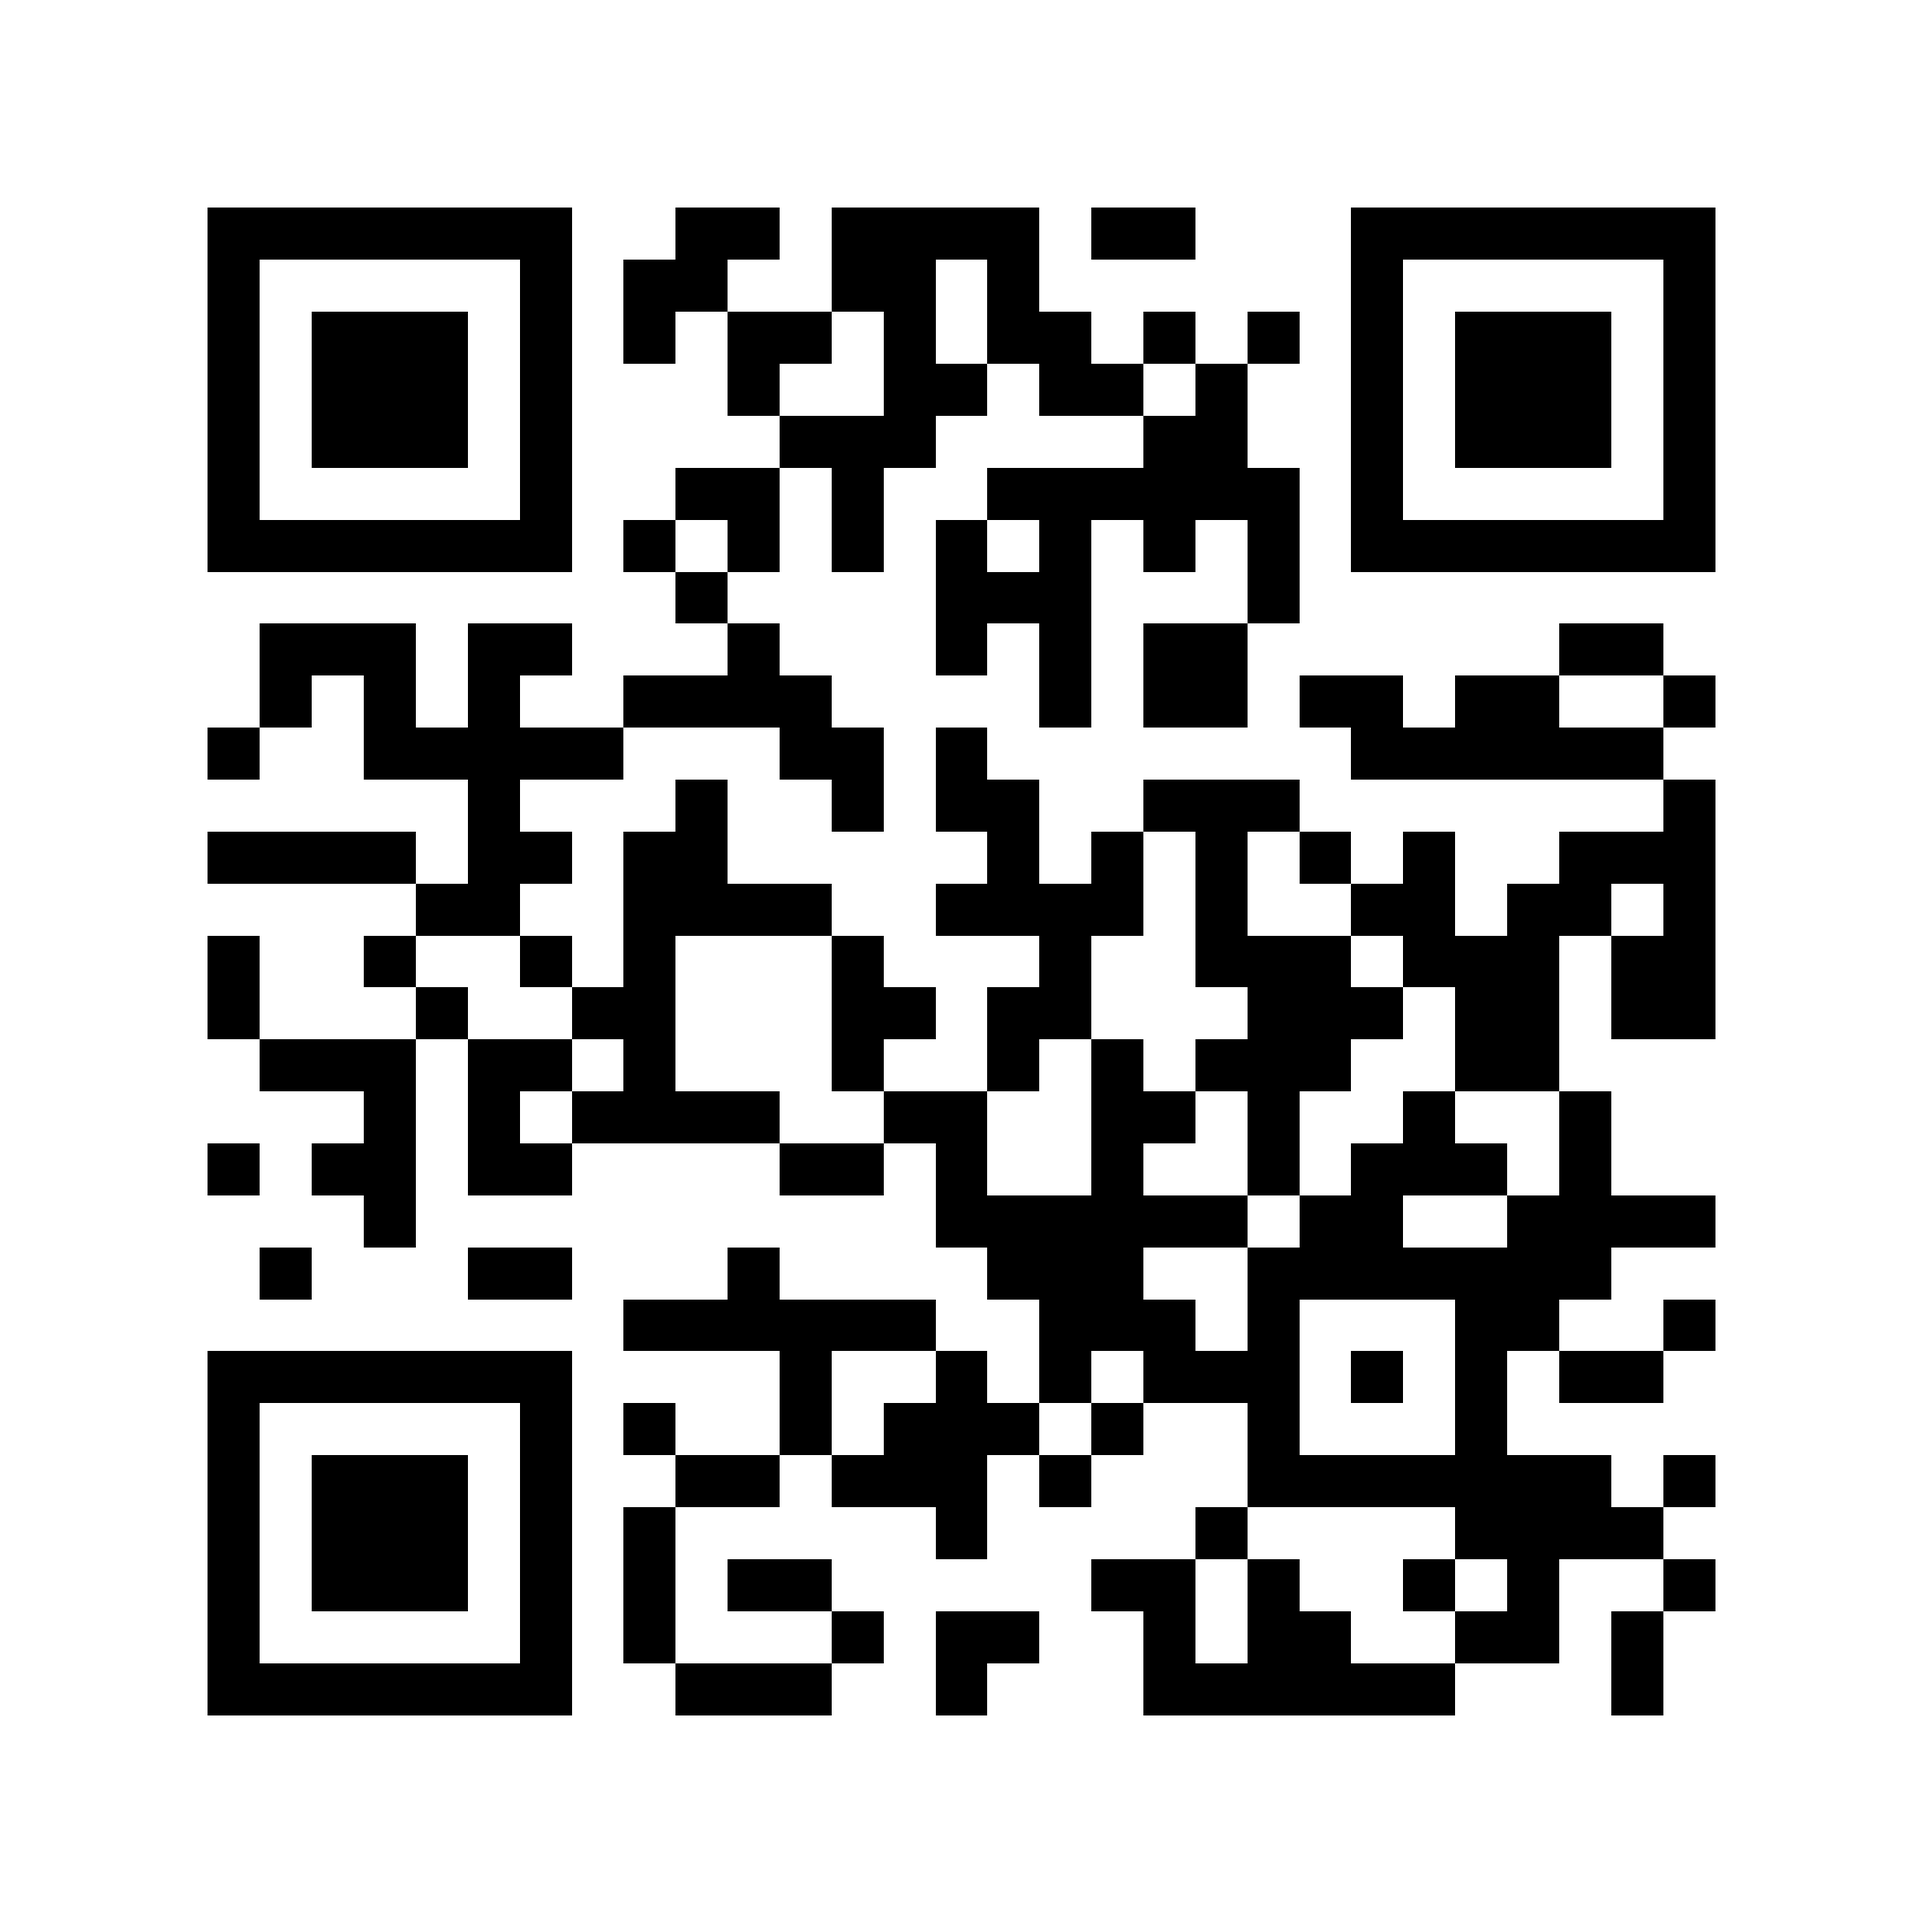
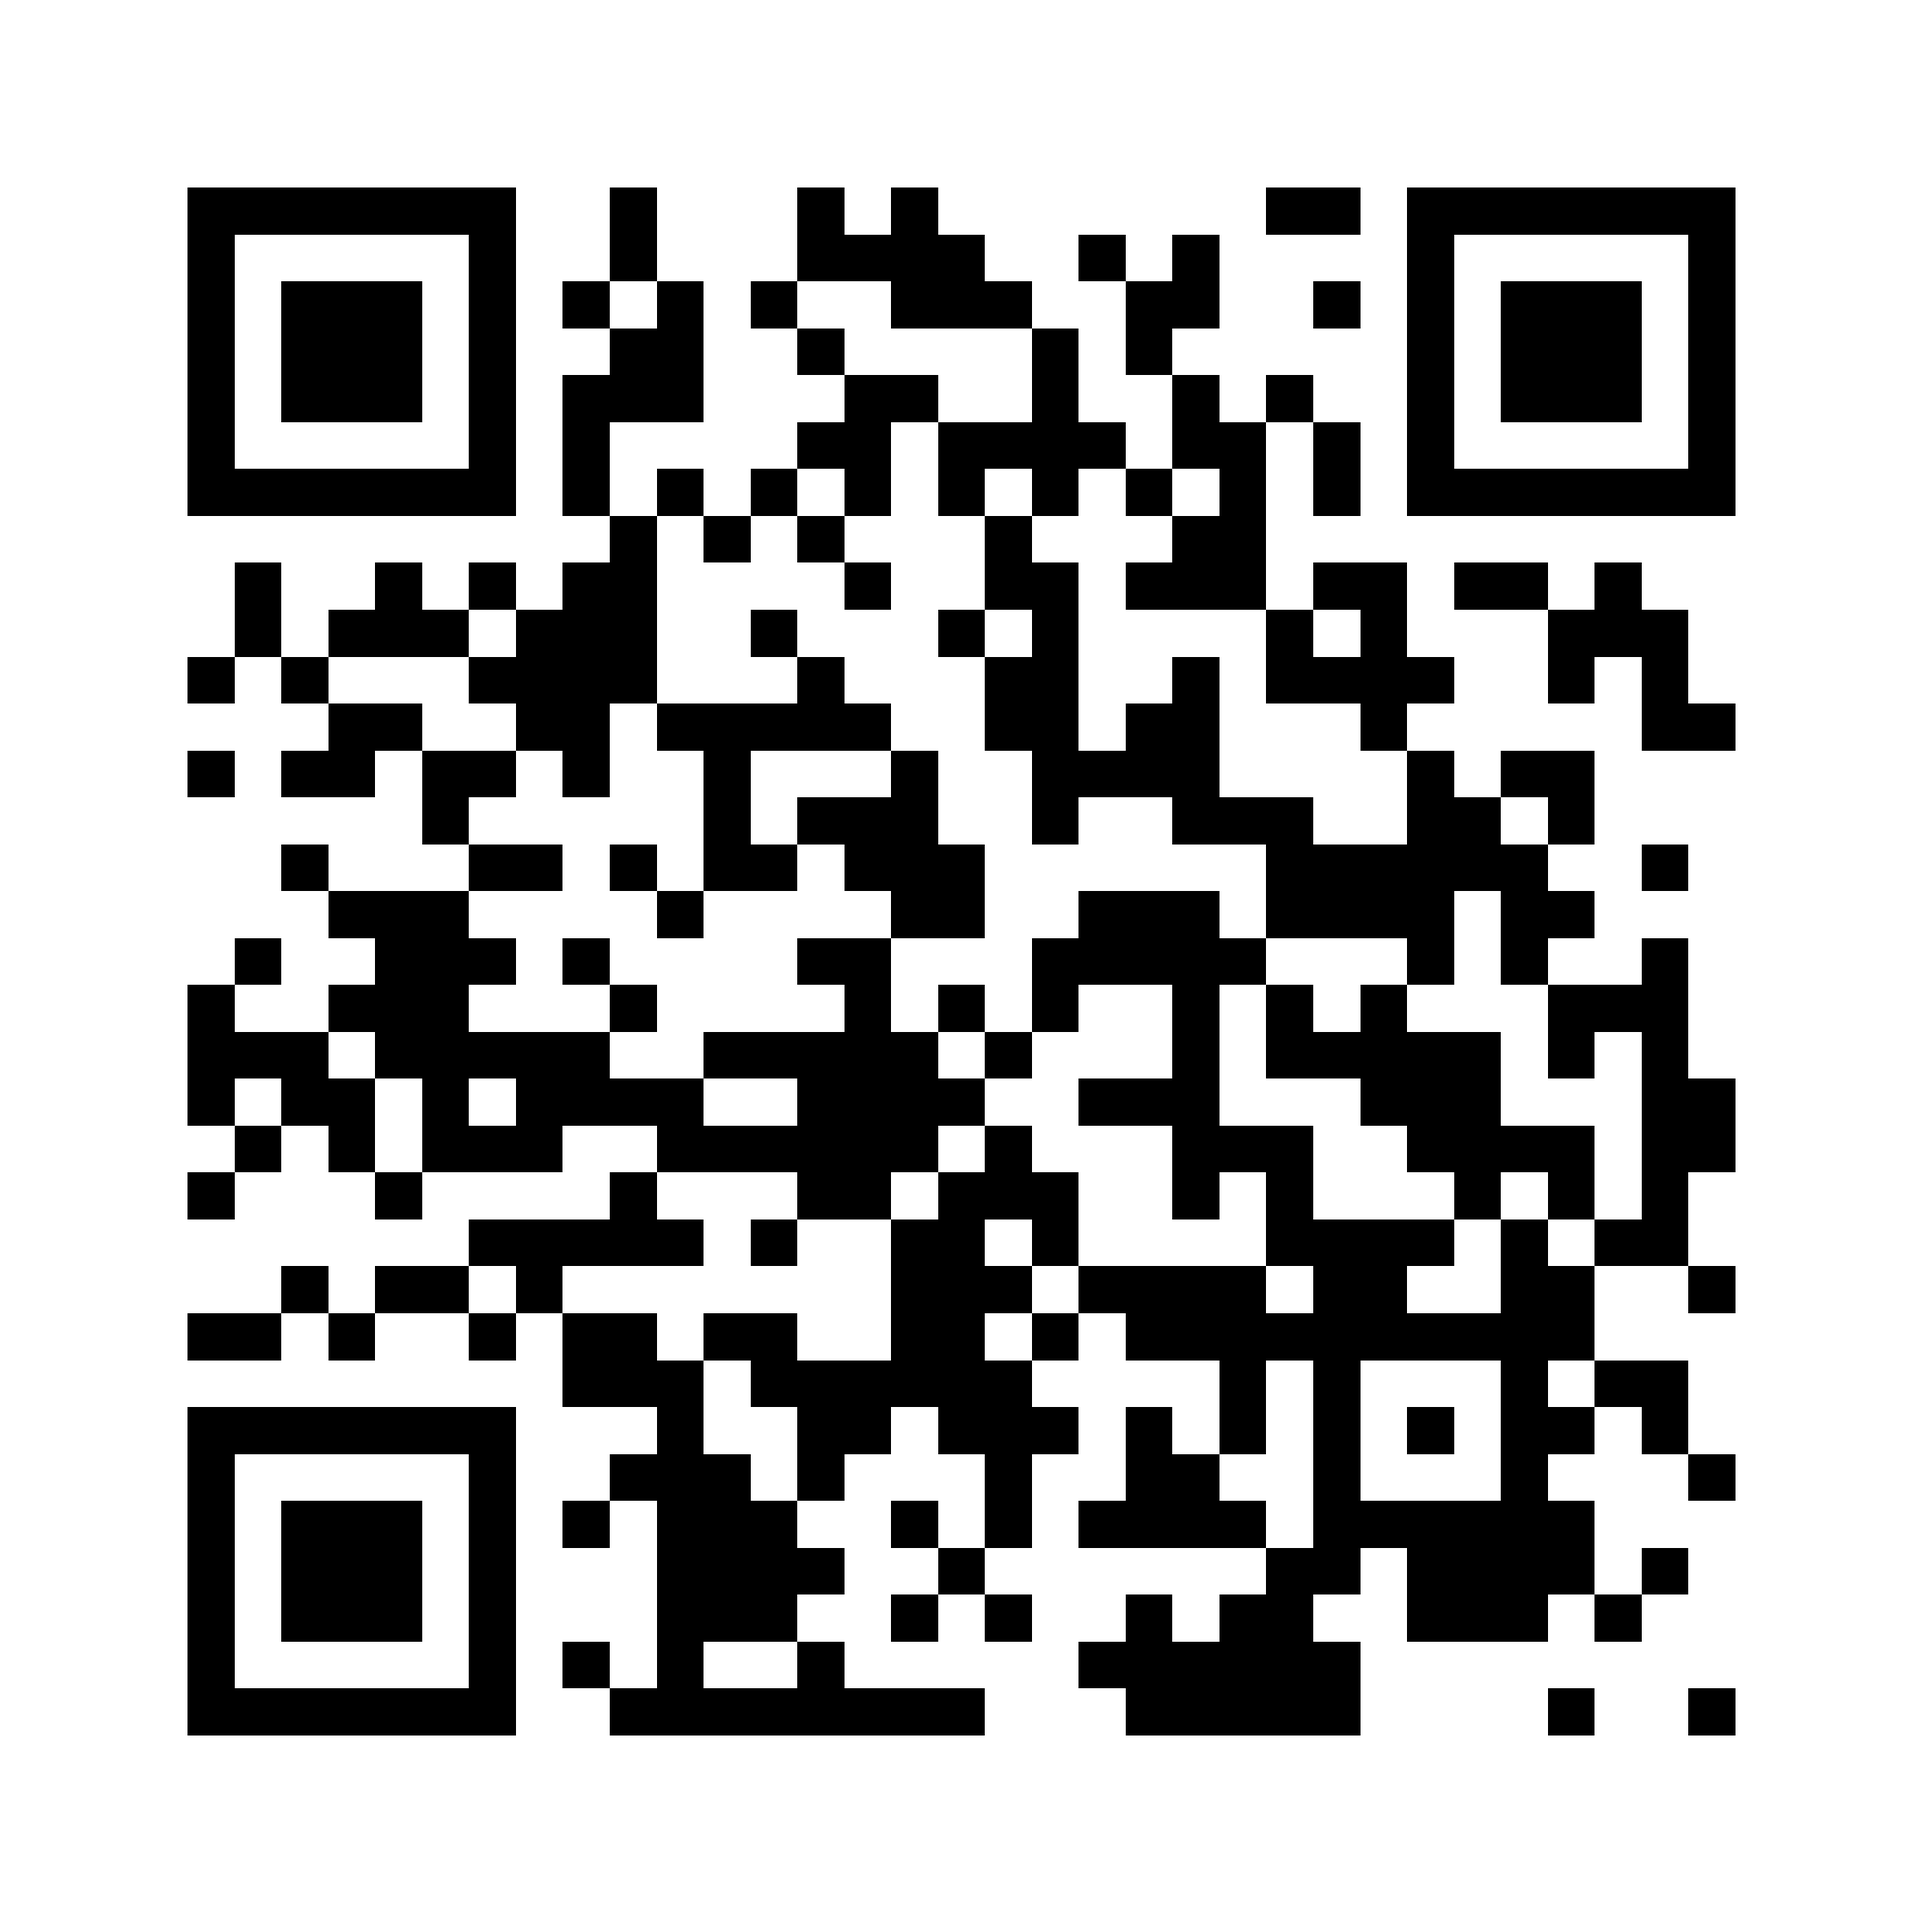
feat: liga o Umami (site maksō) e QR do convite com origem "convite"
- config.json: umamiWebsiteId do site criado no Umami Cloud (região EUA, plano Hobby)
- QR do convite agora aponta para https://makso.onrender.com/?utm_source=convite
  (versão 4, ECC Q) e um teste confere que o PNG em assets/qr decodifica para ela
- README: seção "Visitas (Umami)" e comando do QR com a origem
- spec: seção 15 (contagem de visitas)

Claude-Session: https://claude.ai/code/session_01AT1uLj5nbHYmjPSXDHG2AX

diff --git a/README.md b/README.md
@@ -122,8 +122,10 @@ Uma conta Gmail comum envia até **100 e-mails por dia** pelo script.
 Depois que o site estiver no ar com a URL definitiva:
 
 ```bash
-python3 -I scripts/qr.py https://makso.onrender.com/ assets/qr
+python3 -I scripts/qr.py "https://makso.onrender.com/?utm_source=convite" assets/qr
 ```
+
+O `?utm_source=convite` faz o Umami separar quem chegou pelo convite impresso de quem recebeu o link por WhatsApp ou outro lugar. O site ignora esse trecho; ele serve só para a contagem.
 
 - **Arquivos:**
   - `qr-makso.svg`: vetor, o arquivo para a gráfica;
@@ -134,6 +136,26 @@ python3 -I scripts/qr.py https://makso.onrender.com/ assets/qr
   - preto sobre fundo claro;
   - sem cortar a margem branca em volta.
   - Teste uma prova impressa com iPhone e Android antes da tiragem.
+
+## Visitas (Umami)
+
+O painel fica em **cloud.umami.is** (entrar com o GitHub `vitaodamotorizada123`, plano Hobby grátis, dados nos EUA). Ele mostra:
+
+- **Visitas:** quantas pessoas abriram o site e quando, inclusive em tempo real.
+- **Aparelho:** celular, tablet ou computador; sistema (iOS, Android, Windows…) e navegador; tamanho de tela.
+- **Origem:** país, estado e cidade aproximados; de onde a pessoa veio (o `convite` do QR, links de WhatsApp, Instagram…).
+- **Funil do formulário** (aba Events):
+  - `clicou-confirmar-topo`;
+  - `iniciou-formulario`;
+  - `erro-validacao`;
+  - `confirmou` (com `acompanhante: true/false`);
+  - `recusou`, `ja-respondeu`, `encerrado`, `erro-envio`.
+
+O que **não** aparece, de propósito: nome, e-mail, WhatsApp, IP ou qualquer coisa que identifique a pessoa. O Umami não usa cookies. Quem confirmou, com nome, fica na planilha.
+
+- **Configuração:** o ID do site fica em `config.json` → `umamiWebsiteId`. Deixe vazio para desligar a contagem.
+- **Quando não conta:** no modo demonstração (`?demo=1`) e no computador local, para os testes não sujarem os números.
+- **Limite do plano grátis:** 100 mil eventos por mês e 6 meses de histórico, muito acima do que um lançamento usa.
 
 ## Lista de verificação depois de ligar o Apps Script
 

diff --git a/docs/specs/2026-11-17-makso-presenca-design.md b/docs/specs/2026-11-17-makso-presenca-design.md
@@ -338,3 +338,20 @@ Substitui o que as seções 8 e 8.1 dizem sobre o hero e as cores.
   - erro `#ff6b78` (6,3:1);
   - `theme-color` e `color-scheme: dark`.
 - **Ícones e OG** em `#24151F` com a logo/Ō em branco.
+
+## 15. Contagem de visitas (2026-11-18, pedido do Victor)
+
+- **O pedido:** saber quem acessa o site. O Victor pediu primeiro um "grabify"; recomendei não usar porque registra IP e engana o visitante. Ele escolheu a opção A: **Umami Cloud**, sem cookies e sem dado pessoal, no plano Hobby grátis, com conta entrando pelo GitHub dele e dados nos EUA.
+- **Como entra no site:**
+  - `src/js/analytics.js` injeta `https://cloud.umami.is/script.js` com `data-website-id` e `data-domains=<host do siteUrl>`;
+  - não carrega com `umamiWebsiteId` vazio, no modo demo ou fora do domínio.
+- **CSP:**
+  - `script-src` libera `https://cloud.umami.is`;
+  - `connect-src` libera `https://cloud.umami.is` e `https://api-gateway.umami.dev`.
+- **Eventos do funil (sem dado pessoal):**
+  - `clicou-confirmar-topo`, `iniciou-formulario`, `erro-validacao`;
+  - `confirmou` com `{acompanhante}`;
+  - `recusou`, `ja-respondeu`, `encerrado`;
+  - `erro-envio`, exceto quando a resposta é `invalido`.
+- **Origem:** o QR do convite aponta para `https://makso.onrender.com/?utm_source=convite` (versão 4, ECC Q), para separar o convite impresso dos links compartilhados.
+- **Privacidade:** a nota do formulário diz "Medimos as visitas de forma anônima, sem cookies."
